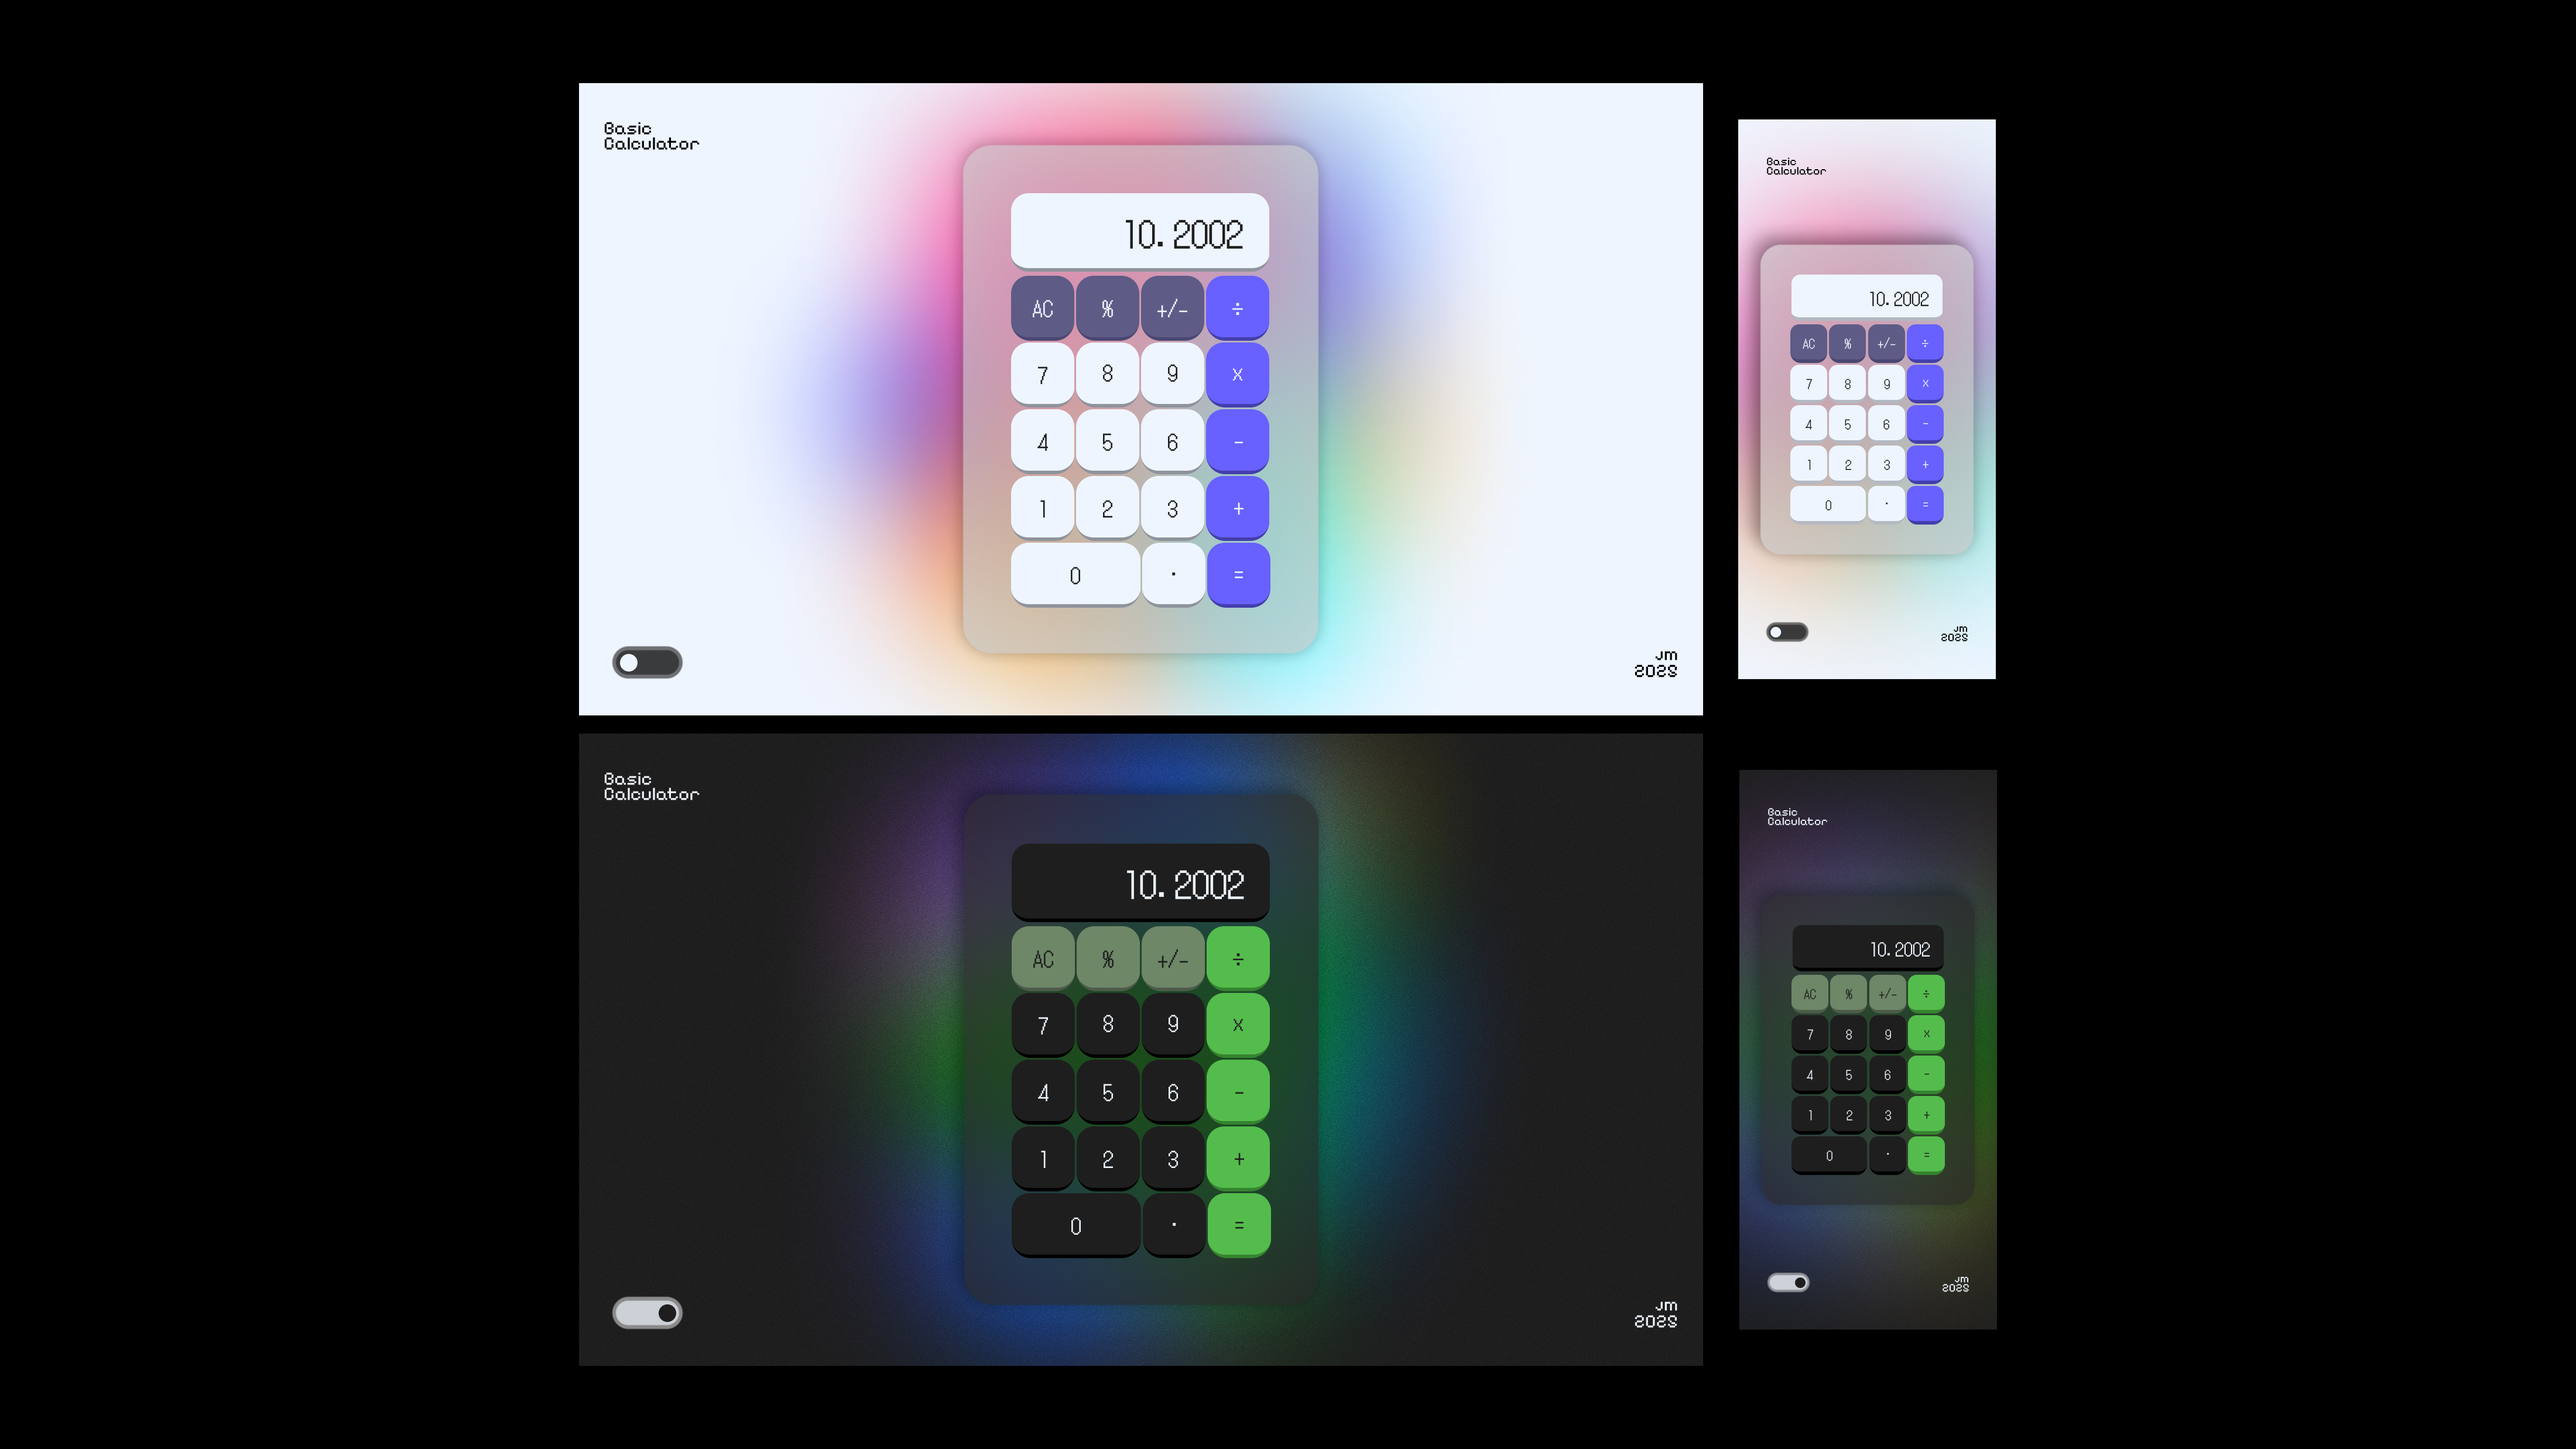
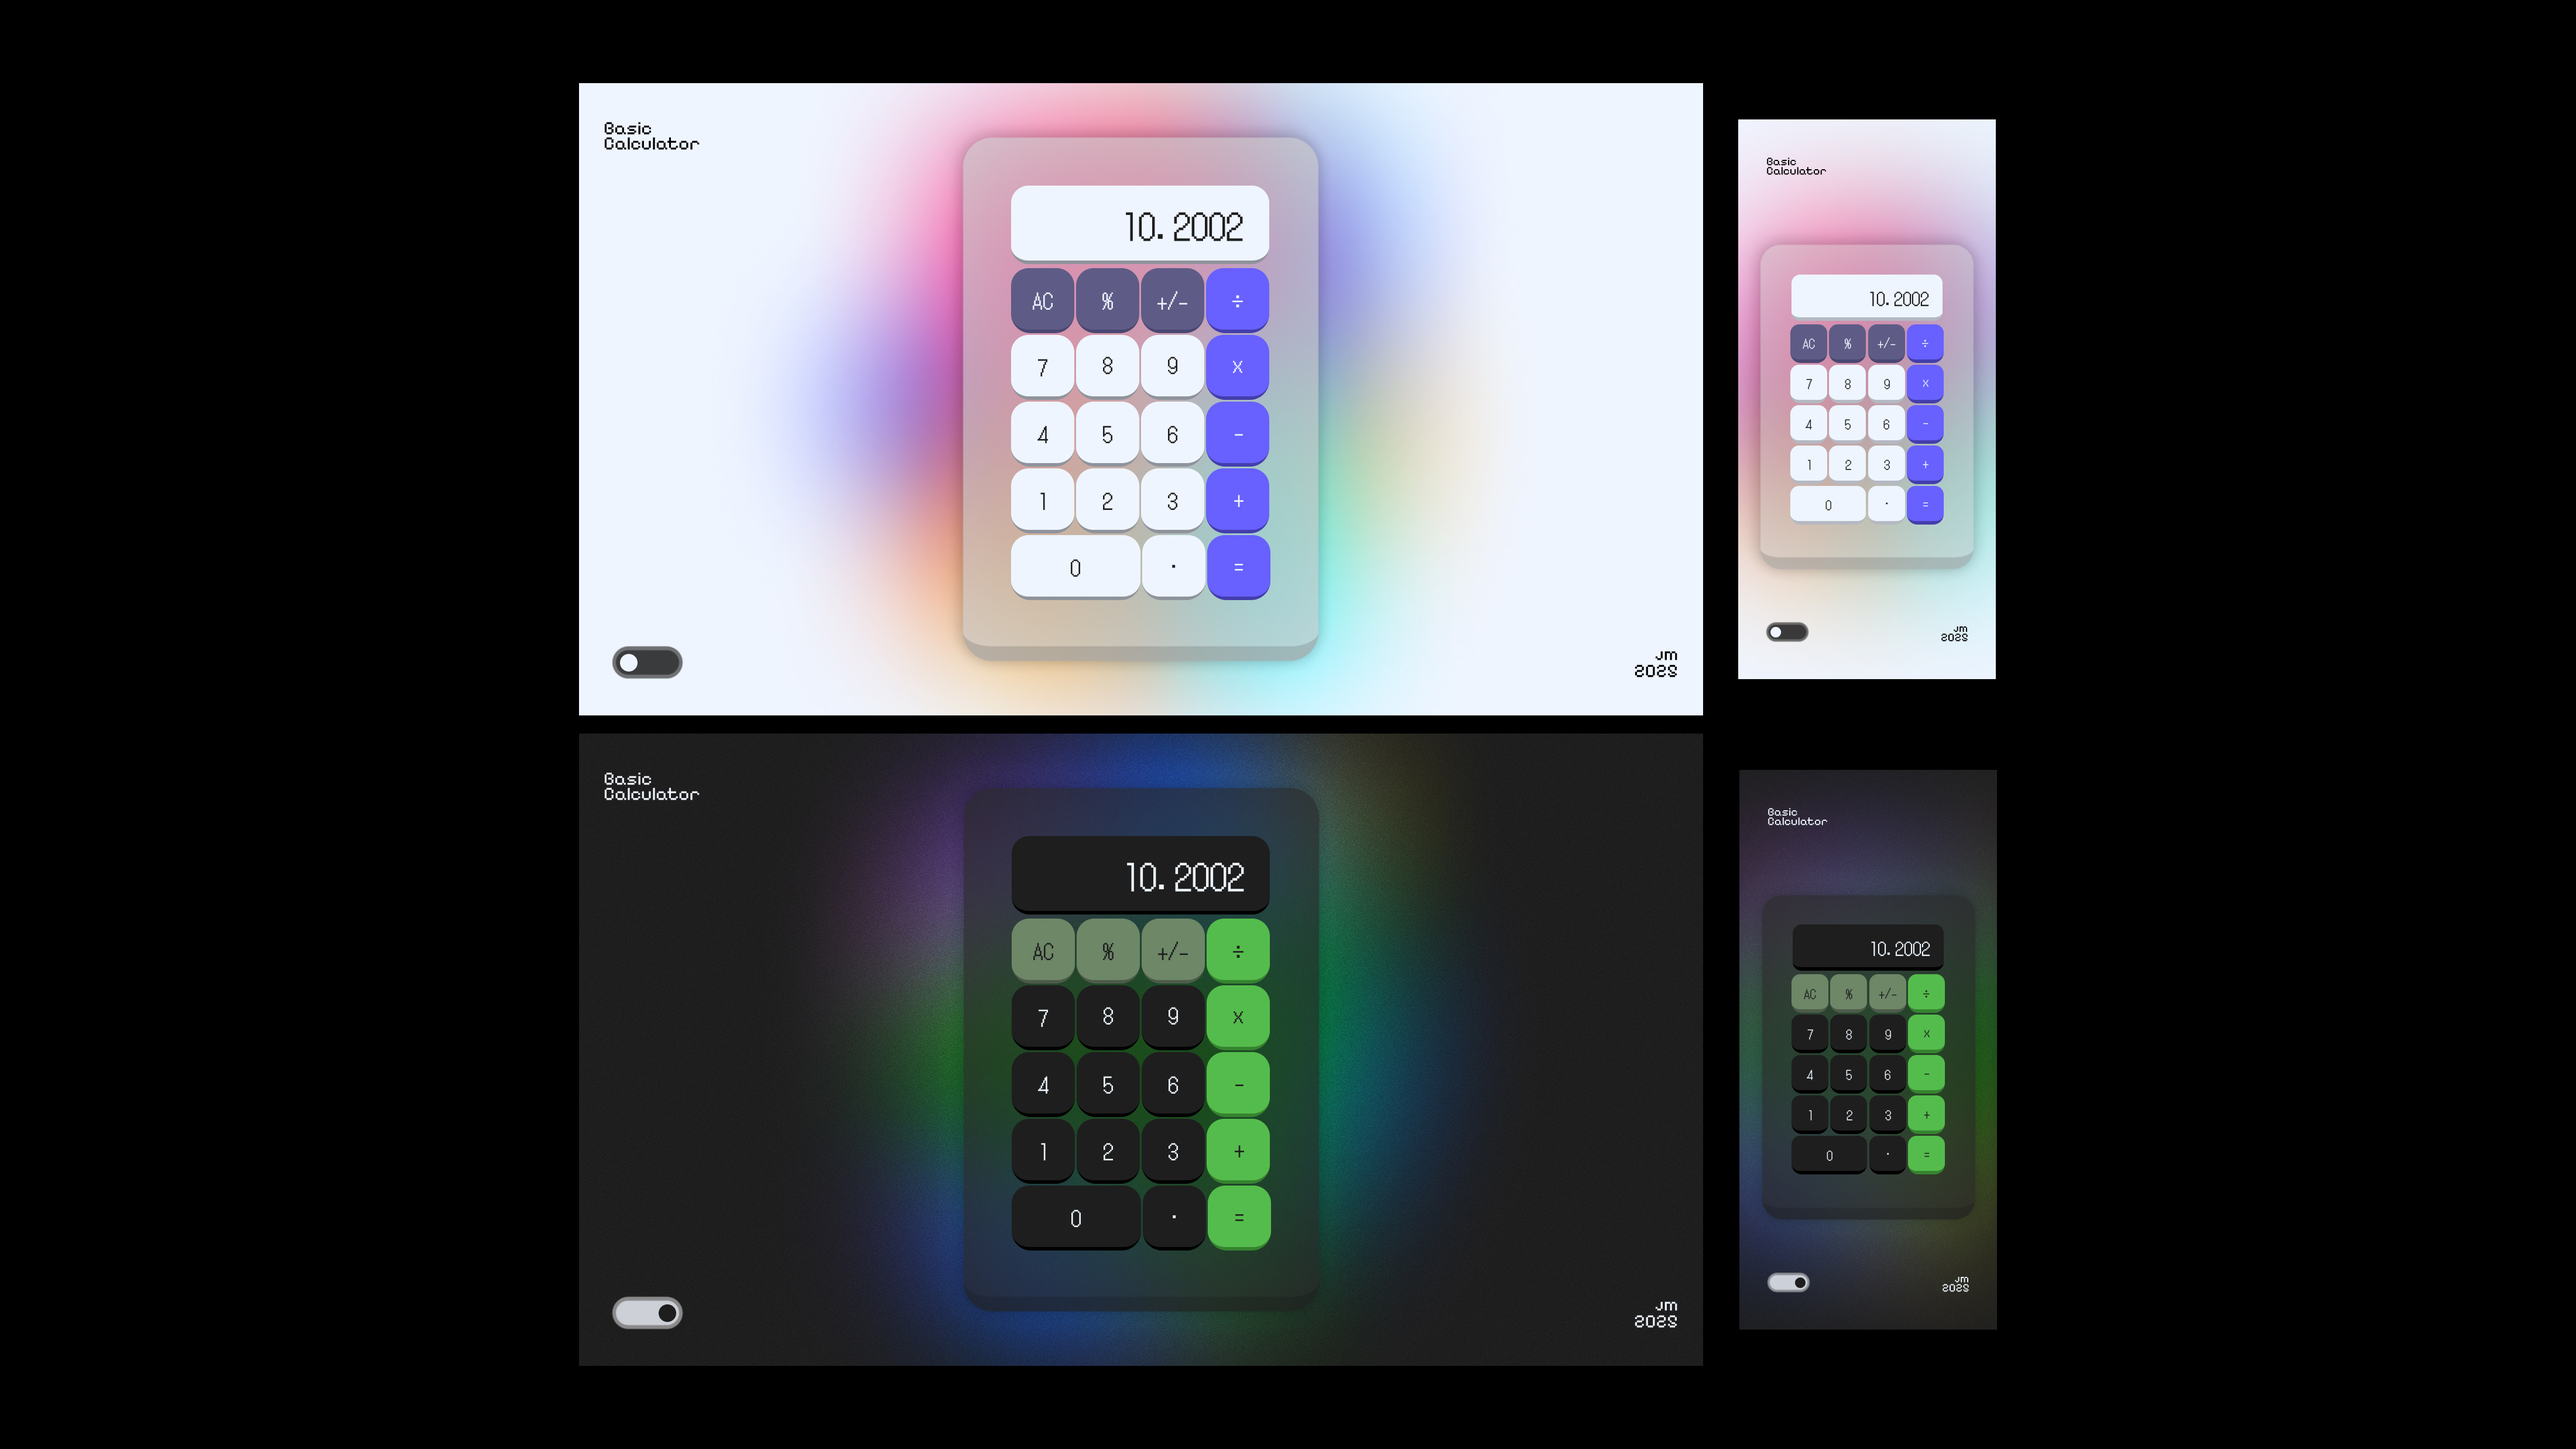
Add basic operations: +, -, x, ÷. Add functions: AC, +/-, %, decimal input. Handle display updates and basic state logic (A, B, operator)

diff --git a/script.js b/script.js
@@ -10,6 +10,13 @@ let A = 0;
 let operator = null;
 let B = null;
 
+function clearAll(){
+    A = 0;
+    B = null;
+    operator = null;
+
+}
+
 for (let i = 0; i < buttonValues.length; i++){
     let value = buttonValues[i];
     let button = document.createElement("button");
@@ -27,20 +34,63 @@ for (let i = 0; i < buttonValues.length; i++){
         if (rightSymbols.includes(value)){
             button.style.backgroundColor = "#6860FF";
             button.style.borderBottom = "solid 8px #433EAC";
-            button.style.color = "#EFF5FF"
+            button.style.color = "#EFF5FF";
         } else if (topSymbol.includes(value)){
             button.style.backgroundColor = "#5E5C86";
             button.style.borderBottom = "solid 8px #4A4773";
-            button.style.color = "#EFF5FF"
+            button.style.color = "#EFF5FF";
         }
     
         //button clicks
         button.addEventListener("click", function() {
             if (rightSymbols.includes(value)){
-    
+                if (value == "="){
+                    if (A != null){
+                        B = display.value;
+                        let numA = Number(A);
+                        let numB = Number(B);
+
+                        if (operator == "÷"){
+                            display.value = numA/numB;
+                        }
+                        else if (operator == "x"){
+                            display.value = numA*numB;
+                        }
+                        else if (operator == "-"){
+                            display.value = numA-numB;
+                        }
+                        else if (operator == "+"){
+                            display.value = numA+numB;
+                        }
+                        clearAll();
+                    }
+                }
+                else {
+                    operator = value;
+                    A = display.value;
+                    display.value = "";
+                }
             }
             else if (topSymbol.includes(value)){
-
+                if (value === "AC"){
+                    clearAll();
+                    display.value = "";
+                }
+                else if (value === "+/-"){
+                    if (display.value !== "" && display.value !== "0"){
+                        //remove the -
+                        if (display.value[0] === "-"){
+                            display.value = display.value.slice(1);
+                        }
+                        else {
+                            display.value = "-" + display.value;
+                        }
+                    }
+                    
+                }
+                else if (value === "%"){
+                    display.value = Number(display.value)/100;
+                }
             } 
             else { //num or . 
                 if (value === "."){

diff --git a/styles.css b/styles.css
@@ -26,6 +26,7 @@
     box-shadow: -6px -6px 20px 3px #00000023;
     z-index: 4;
     transition: transform 0.2s ease-in-out, box-shadow 0.1s ease-in-out;
+    border-bottom: solid 25px #00000023;
 }
 
 #calculator:hover{
